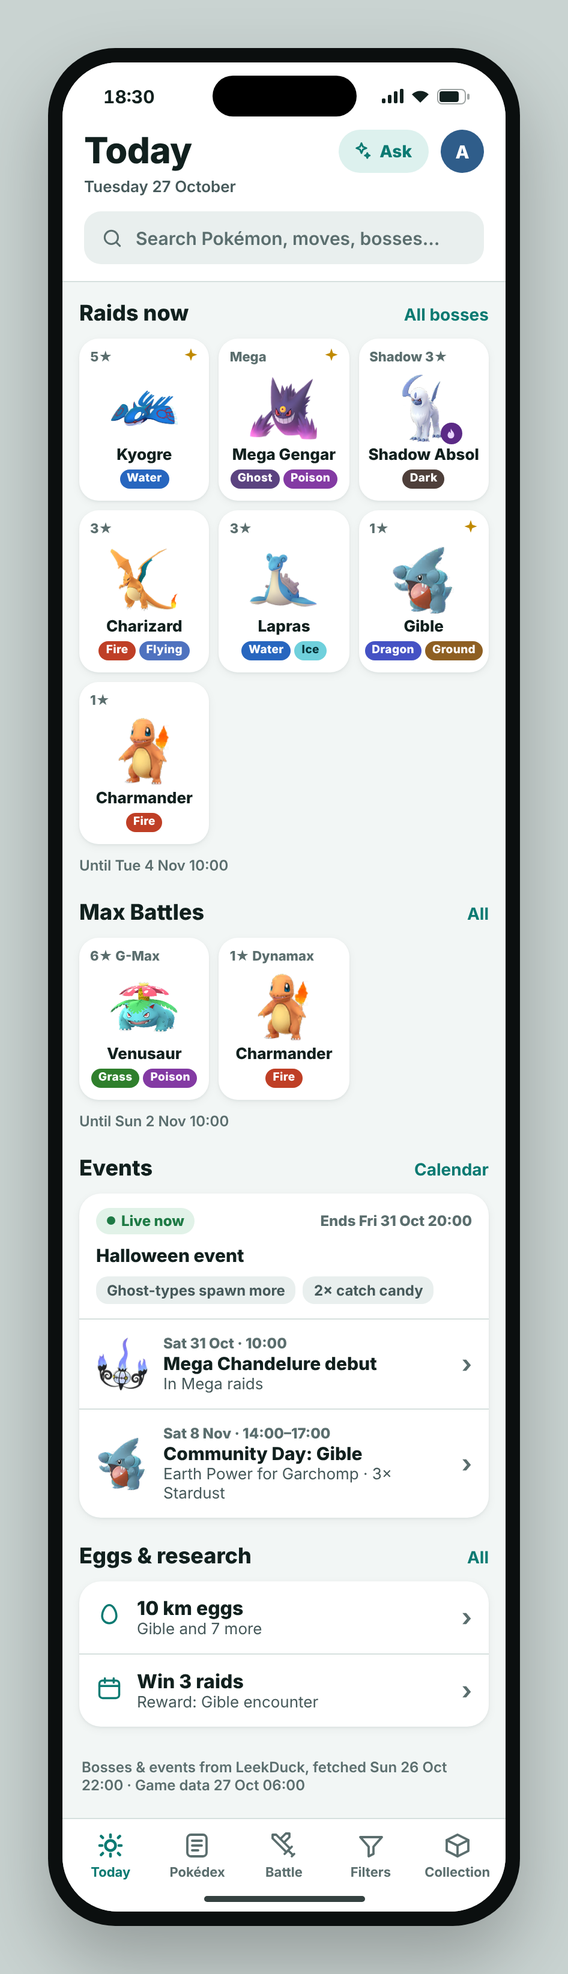
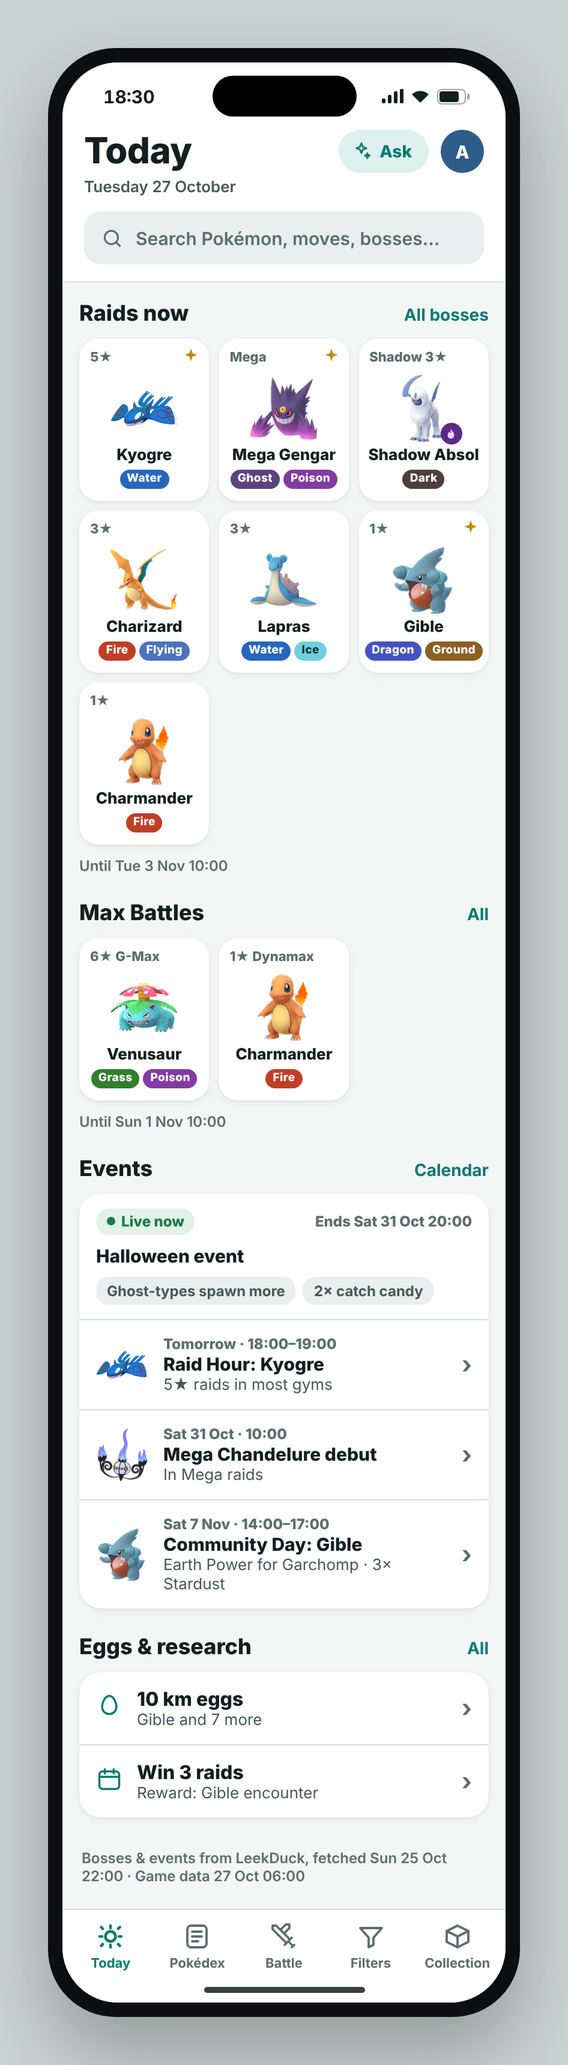
Design: A2 Calendar; sample dates fixed; A1 shows tomorrow's Raid Hour
Claude-Session: https://claude.ai/code/session_014PLsCiJiJmtsciFeh9tQXY

diff --git a/design/source/screens/A1-phone.html b/design/source/screens/A1-phone.html
@@ -8,24 +8,25 @@
 <div class="scroll"><div style="padding:16px 14px 20px;display:flex;flex-direction:column;gap:22px">
  <section class="section"><div class="sechead"><h2 class="sectitle">Raids now</h2><a class="seclink">All bosses</a></div>
   <div class="tiles" style="grid-template-columns:repeat(3,minmax(0,1fr))"><div class="tile"><span class="tier">5★</span><svg class="shiny" width="14" height="14" viewBox="0 0 24 24" aria-label="Shiny available"><path d="M12 2l2.2 6.6L21 11l-6.8 2.4L12 20l-2.2-6.6L3 11l6.8-2.4z" fill="currentColor"/></svg><img class="sprite" src="../sprites/382.png" width="56" height="56" alt="Kyogre"><span class="name">Kyogre</span><span class="types"><span class="type water">Water</span></span></div><div class="tile"><span class="tier">Mega</span><svg class="shiny" width="14" height="14" viewBox="0 0 24 24" aria-label="Shiny available"><path d="M12 2l2.2 6.6L21 11l-6.8 2.4L12 20l-2.2-6.6L3 11l6.8-2.4z" fill="currentColor"/></svg><img class="sprite" src="../sprites/094_51.png" width="56" height="56" alt="Mega Gengar"><span class="name">Mega Gengar</span><span class="types"><span class="type ghost">Ghost</span><span class="type poison">Poison</span></span></div><div class="tile"><span class="tier">Shadow 3★</span><span class="spritewrap"><img class="sprite" src="../sprites/359.png" width="56" height="56" alt="Shadow Absol"><span class="shadowflame"><svg width="11" height="11" viewBox="0 0 24 24"><path d="M12 2c1 4 6 6 6 12a6 6 0 0 1-12 0c0-3 2-5 3-7 1 2 3 3 3 3s-1-4 0-8z" fill="#E9D5FF"/></svg></span><span class="name">Shadow Absol</span><span class="types"><span class="type dark">Dark</span></span></span></div><div class="tile"><span class="tier">3★</span><img class="sprite" src="../sprites/006.png" width="56" height="56" alt="Charizard"><span class="name">Charizard</span><span class="types"><span class="type fire">Fire</span><span class="type flying">Flying</span></span></div><div class="tile"><span class="tier">3★</span><img class="sprite" src="../sprites/131.png" width="56" height="56" alt="Lapras"><span class="name">Lapras</span><span class="types"><span class="type water">Water</span><span class="type ice">Ice</span></span></div><div class="tile"><span class="tier">1★</span><svg class="shiny" width="14" height="14" viewBox="0 0 24 24" aria-label="Shiny available"><path d="M12 2l2.2 6.6L21 11l-6.8 2.4L12 20l-2.2-6.6L3 11l6.8-2.4z" fill="currentColor"/></svg><img class="sprite" src="../sprites/443.png" width="56" height="56" alt="Gible"><span class="name">Gible</span><span class="types"><span class="type dragon">Dragon</span><span class="type ground">Ground</span></span></div><div class="tile"><span class="tier">1★</span><img class="sprite" src="../sprites/004.png" width="56" height="56" alt="Charmander"><span class="name">Charmander</span><span class="types"><span class="type fire">Fire</span></span></div></div>
-  <span class="fresh">Until Tue 4 Nov 10:00</span></section>
+  <span class="fresh">Until Tue 3 Nov 10:00</span></section>
  <section class="section"><div class="sechead"><h2 class="sectitle">Max Battles</h2><a class="seclink">All</a></div>
   <div class="tiles" style="grid-template-columns:repeat(3,minmax(0,1fr))"><div class="tile"><span class="tier">6★ G-Max</span><img class="sprite" src="../sprites/003.png" width="56" height="56" alt="Venusaur"><span class="name">Venusaur</span><span class="types"><span class="type grass">Grass</span><span class="type poison">Poison</span></span></div><div class="tile"><span class="tier">1★ Dynamax</span><img class="sprite" src="../sprites/004.png" width="56" height="56" alt="Charmander"><span class="name">Charmander</span><span class="types"><span class="type fire">Fire</span></span></div></div>
-  <span class="fresh">Until Sun 2 Nov 10:00</span></section>
+  <span class="fresh">Until Sun 1 Nov 10:00</span></section>
  <section class="section"><div class="sechead"><h2 class="sectitle">Events</h2><a class="seclink">Calendar</a></div><div class="card">
  <div class="evt" style="flex-direction:column;align-items:stretch;gap:8px">
-  <div style="display:flex;align-items:center;gap:8px"><span class="pill live"><span class="dot"></span>Live now</span><span class="when" style="margin-left:auto">Ends Fri 31 Oct 20:00</span></div>
+  <div style="display:flex;align-items:center;gap:8px"><span class="pill live"><span class="dot"></span>Live now</span><span class="when" style="margin-left:auto">Ends Sat 31 Oct 20:00</span></div>
   <div class="what">Halloween event</div>
   <div class="chips"><span class="chip">Ghost-types spawn more</span><span class="chip">2× catch candy</span></div>
  </div>
+ <div class="evt"><img class="sprite" src="../sprites/382.png" width="44" height="44" alt="Kyogre"><div><div class="when">Tomorrow · 18:00–19:00</div><div class="what">Raid Hour: Kyogre</div><div class="muted" style="font-size:13px">5★ raids in most gyms</div></div><span class="chev">›</span></div>
  <div class="evt"><img class="sprite" src="../sprites/609.png" width="44" height="44" alt="Chandelure"><div><div class="when">Sat 31 Oct · 10:00</div><div class="what">Mega Chandelure debut</div><div class="muted" style="font-size:13px">In Mega raids</div></div><span class="chev">›</span></div>
- <div class="evt"><img class="sprite" src="../sprites/443.png" width="44" height="44" alt="Gible"><div><div class="when">Sat 8 Nov · 14:00–17:00</div><div class="what">Community Day: Gible</div><div class="muted" style="font-size:13px">Earth Power for Garchomp · 3× Stardust</div></div><span class="chev">›</span></div>
+ <div class="evt"><img class="sprite" src="../sprites/443.png" width="44" height="44" alt="Gible"><div><div class="when">Sat 7 Nov · 14:00–17:00</div><div class="what">Community Day: Gible</div><div class="muted" style="font-size:13px">Earth Power for Garchomp · 3× Stardust</div></div><span class="chev">›</span></div>
 </div></section>
  <section class="section"><div class="sechead"><h2 class="sectitle">Eggs &amp; research</h2><a class="seclink">All</a></div><div class="card">
  <div class="row"><span style="color:var(--accent)">ICON_EGG</span><div><div style="font-weight:800">10 km eggs</div><div class="muted" style="font-size:13px">Gible and 7 more</div></div><span class="chev">›</span></div>
  <div class="row"><span style="color:var(--accent)">ICON_CAL</span><div><div style="font-weight:800">Win 3 raids</div><div class="muted" style="font-size:13px">Reward: Gible encounter</div></div><span class="chev">›</span></div>
 </div></section>
- <p class="fresh" style="margin:4px 2px 0">Bosses &amp; events from LeekDuck, fetched Sun 26 Oct 22:00 · Game data 27 Oct 06:00</p>
+ <p class="fresh" style="margin:4px 2px 0">Bosses &amp; events from LeekDuck, fetched Sun 25 Oct 22:00 · Game data 27 Oct 06:00</p>
 </div></div>
 <div data-tabbar="today"></div>
 </div></div></div><script src="../chrome.js"></script><script>document.body.innerHTML=document.body.innerHTML.replaceAll("ICON_EGG",icon("egg",22)).replaceAll("ICON_CAL",icon("calendar",22));</script></body></html>

diff --git a/design/source/screens/A1-desktop.html b/design/source/screens/A1-desktop.html
@@ -5,20 +5,21 @@
   <div style="display:flex;flex-direction:column;gap:26px">
    <section class="section"><div class="sechead"><h2 class="sectitle">Raids now</h2><a class="seclink">All raid bosses →</a></div>
     <div class="tiles" style="grid-template-columns:repeat(4,minmax(0,1fr));gap:12px;--s:72px"><div class="tile"><span class="tier">5★</span><svg class="shiny" width="14" height="14" viewBox="0 0 24 24" aria-label="Shiny available"><path d="M12 2l2.2 6.6L21 11l-6.8 2.4L12 20l-2.2-6.6L3 11l6.8-2.4z" fill="currentColor"/></svg><img class="sprite" src="../sprites/382.png" width="72" height="72" alt="Kyogre"><span class="name">Kyogre</span><span class="types"><span class="type water">Water</span></span></div><div class="tile"><span class="tier">Mega</span><svg class="shiny" width="14" height="14" viewBox="0 0 24 24" aria-label="Shiny available"><path d="M12 2l2.2 6.6L21 11l-6.8 2.4L12 20l-2.2-6.6L3 11l6.8-2.4z" fill="currentColor"/></svg><img class="sprite" src="../sprites/094_51.png" width="72" height="72" alt="Mega Gengar"><span class="name">Mega Gengar</span><span class="types"><span class="type ghost">Ghost</span><span class="type poison">Poison</span></span></div><div class="tile"><span class="tier">Shadow 3★</span><span class="spritewrap"><img class="sprite" src="../sprites/359.png" width="72" height="72" alt="Shadow Absol"><span class="shadowflame"><svg width="11" height="11" viewBox="0 0 24 24"><path d="M12 2c1 4 6 6 6 12a6 6 0 0 1-12 0c0-3 2-5 3-7 1 2 3 3 3 3s-1-4 0-8z" fill="#E9D5FF"/></svg></span><span class="name">Shadow Absol</span><span class="types"><span class="type dark">Dark</span></span></span></div><div class="tile"><span class="tier">3★</span><img class="sprite" src="../sprites/006.png" width="72" height="72" alt="Charizard"><span class="name">Charizard</span><span class="types"><span class="type fire">Fire</span><span class="type flying">Flying</span></span></div><div class="tile"><span class="tier">3★</span><img class="sprite" src="../sprites/131.png" width="72" height="72" alt="Lapras"><span class="name">Lapras</span><span class="types"><span class="type water">Water</span><span class="type ice">Ice</span></span></div><div class="tile"><span class="tier">1★</span><svg class="shiny" width="14" height="14" viewBox="0 0 24 24" aria-label="Shiny available"><path d="M12 2l2.2 6.6L21 11l-6.8 2.4L12 20l-2.2-6.6L3 11l6.8-2.4z" fill="currentColor"/></svg><img class="sprite" src="../sprites/443.png" width="72" height="72" alt="Gible"><span class="name">Gible</span><span class="types"><span class="type dragon">Dragon</span><span class="type ground">Ground</span></span></div><div class="tile"><span class="tier">1★</span><img class="sprite" src="../sprites/004.png" width="72" height="72" alt="Charmander"><span class="name">Charmander</span><span class="types"><span class="type fire">Fire</span></span></div></div>
-    <span class="fresh">Until Tue 4 Nov 10:00</span></section>
+    <span class="fresh">Until Tue 3 Nov 10:00</span></section>
    <section class="section"><div class="sechead"><h2 class="sectitle">Max Battles</h2><a class="seclink">All Max Battles →</a></div>
     <div class="tiles" style="grid-template-columns:repeat(4,minmax(0,1fr));gap:12px;--s:72px"><div class="tile"><span class="tier">6★ G-Max</span><img class="sprite" src="../sprites/003.png" width="72" height="72" alt="Venusaur"><span class="name">Venusaur</span><span class="types"><span class="type grass">Grass</span><span class="type poison">Poison</span></span></div><div class="tile"><span class="tier">1★ Dynamax</span><img class="sprite" src="../sprites/004.png" width="72" height="72" alt="Charmander"><span class="name">Charmander</span><span class="types"><span class="type fire">Fire</span></span></div></div>
-    <span class="fresh">Until Sun 2 Nov 10:00</span></section>
+    <span class="fresh">Until Sun 1 Nov 10:00</span></section>
   </div>
   <div style="display:flex;flex-direction:column;gap:26px">
    <section class="section"><div class="sechead"><h2 class="sectitle">Events</h2><a class="seclink">Calendar →</a></div><div class="card">
  <div class="evt" style="flex-direction:column;align-items:stretch;gap:8px">
-  <div style="display:flex;align-items:center;gap:8px"><span class="pill live"><span class="dot"></span>Live now</span><span class="when" style="margin-left:auto">Ends Fri 31 Oct 20:00</span></div>
+  <div style="display:flex;align-items:center;gap:8px"><span class="pill live"><span class="dot"></span>Live now</span><span class="when" style="margin-left:auto">Ends Sat 31 Oct 20:00</span></div>
   <div class="what">Halloween event</div>
   <div class="chips"><span class="chip">Ghost-types spawn more</span><span class="chip">2× catch candy</span></div>
  </div>
+ <div class="evt"><img class="sprite" src="../sprites/382.png" width="44" height="44" alt="Kyogre"><div><div class="when">Tomorrow · 18:00–19:00</div><div class="what">Raid Hour: Kyogre</div><div class="muted" style="font-size:13px">5★ raids in most gyms</div></div><span class="chev">›</span></div>
  <div class="evt"><img class="sprite" src="../sprites/609.png" width="44" height="44" alt="Chandelure"><div><div class="when">Sat 31 Oct · 10:00</div><div class="what">Mega Chandelure debut</div><div class="muted" style="font-size:13px">In Mega raids</div></div><span class="chev">›</span></div>
- <div class="evt"><img class="sprite" src="../sprites/443.png" width="44" height="44" alt="Gible"><div><div class="when">Sat 8 Nov · 14:00–17:00</div><div class="what">Community Day: Gible</div><div class="muted" style="font-size:13px">Earth Power for Garchomp · 3× Stardust</div></div><span class="chev">›</span></div>
+ <div class="evt"><img class="sprite" src="../sprites/443.png" width="44" height="44" alt="Gible"><div><div class="when">Sat 7 Nov · 14:00–17:00</div><div class="what">Community Day: Gible</div><div class="muted" style="font-size:13px">Earth Power for Garchomp · 3× Stardust</div></div><span class="chev">›</span></div>
 </div></section>
    <section class="section"><div class="sechead"><h2 class="sectitle">Eggs &amp; research</h2><a class="seclink">All →</a></div><div class="card">
  <div class="row"><span style="color:var(--accent)">ICON_EGG</span><div><div style="font-weight:800">10 km eggs</div><div class="muted" style="font-size:13px">Gible and 7 more</div></div><span class="chev">›</span></div>
@@ -26,5 +27,5 @@
 </div></section>
   </div>
  </div>
- <p class="fresh" style="margin:4px 2px 0">Bosses &amp; events from LeekDuck, fetched Sun 26 Oct 22:00 · Game data 27 Oct 06:00</p>
+ <p class="fresh" style="margin:4px 2px 0">Bosses &amp; events from LeekDuck, fetched Sun 25 Oct 22:00 · Game data 27 Oct 06:00</p>
 </div></div></div><script src="../chrome.js"></script><script>document.body.innerHTML=document.body.innerHTML.replaceAll("ICON_EGG",icon("egg",22)).replaceAll("ICON_CAL",icon("calendar",22));</script></body></html>

diff --git a/design/source/screens/A2-desktop.html b/design/source/screens/A2-desktop.html
@@ -1,0 +1,4 @@
+<!doctype html><html lang="en"><head><meta charset="utf-8"><title>A2 Calendar</title><link rel="stylesheet" href="../base.css"><link rel="stylesheet" href="_a2.css"></head><body><div class="desktop"><div data-sidebar="calendar"></div><div class="main"><div data-topbar></div>
+<div class="content" style="max-width:960px"><a class="backlink">‹ Today</a>
+<div style="display:flex;align-items:flex-end;gap:16px;margin:6px 0 18px"><h1 class="bigtitle" style="flex:none">Calendar</h1><span style="flex:1"></span><div class="filterchips"><span class="fchip on">All</span><span class="fchip">Raids</span><span class="fchip">Max Battles</span><span class="fchip">Events</span></div></div>
+<div style="margin:0 -12px"><div class="day"><b>Now</b></div><div class="group" style="margin:0 12px 6px"><div class="citem"><div class="ctime">Until Sat 31&nbsp;Oct 20:00</div><div class="cbody"><span style="display:flex;gap:6px;align-items:center"><span class="pill live" style="height:20px"><span class="dot"></span>Live</span><span class="kind ev">Event</span></span><div class="ctitle">Halloween event</div><div class="chips"><span class="chip">Ghost-types spawn more</span><span class="chip">2× catch candy</span></div></div><span class="csprites"><img class="sprite" src="../sprites/094.png" width="40" height="40" alt=""></span><span class="chev">›</span></div><div class="citem"><div class="ctime">Until Tue 3&nbsp;Nov 10:00</div><div class="cbody"><span style="display:flex;gap:6px;align-items:center"><span class="pill live" style="height:20px"><span class="dot"></span>Live</span><span class="kind">Raids</span></span><div class="ctitle">Kyogre, Mega Gengar, Shadow Absol and 4 more</div></div><span class="csprites"><img class="sprite" src="../sprites/382.png" width="40" height="40" alt=""><img class="sprite" src="../sprites/094_51.png" width="40" height="40" alt=""><img class="sprite" src="../sprites/359.png" width="40" height="40" alt=""></span><span class="chev">›</span></div><div class="citem"><div class="ctime">Until Sun 1&nbsp;Nov 10:00</div><div class="cbody"><span style="display:flex;gap:6px;align-items:center"><span class="pill live" style="height:20px"><span class="dot"></span>Live</span><span class="kind">Max Battles</span></span><div class="ctitle">Gigantamax Venusaur, Dynamax Charmander</div></div><span class="csprites"><img class="sprite" src="../sprites/003.png" width="40" height="40" alt=""><img class="sprite" src="../sprites/004.png" width="40" height="40" alt=""></span><span class="chev">›</span></div></div><div class="day"><b>Wed 28 Oct</b>Tomorrow</div><div class="group" style="margin:0 12px 6px"><div class="citem"><div class="ctime">18:00–<br>19:00</div><div class="cbody"><span class="kind">Raid Hour</span><div class="ctitle">Kyogre</div><div class="chips"><span class="chip">5★ raids in most gyms</span></div></div><span class="csprites"><img class="sprite" src="../sprites/382.png" width="40" height="40" alt=""></span><span class="chev">›</span></div></div><div class="day"><b>Sat 31 Oct</b></div><div class="group" style="margin:0 12px 6px"><div class="citem"><div class="ctime">10:00</div><div class="cbody"><span class="kind ev">Debut</span><div class="ctitle">Mega Chandelure in Mega raids</div></div><span class="csprites"><img class="sprite" src="../sprites/609.png" width="40" height="40" alt=""></span><span class="chev">›</span></div><div class="citem"><div class="ctime">20:00</div><div class="cbody"><span class="kind">Event ends</span><div class="ctitle">Halloween event ends</div></div><span class="chev">›</span></div></div><div class="day"><b>Sun 1 Nov</b></div><div class="group" style="margin:0 12px 6px"><div class="citem"><div class="ctime">10:00</div><div class="cbody"><span class="kind">Max Battles</span><div class="ctitle">New: 6★ Gigantamax Lapras</div></div><span class="csprites"><img class="sprite" src="../sprites/131.png" width="40" height="40" alt=""></span><span class="chev">›</span></div></div><div class="day"><b>Mon 2 Nov</b></div><div class="group" style="margin:0 12px 6px"><div class="citem"><div class="ctime">18:00–<br>19:00</div><div class="cbody"><span class="kind">Max Monday</span><div class="ctitle">Gigantamax Lapras</div><div class="chips"><span class="chip">More Power Spots</span></div></div><span class="csprites"><img class="sprite" src="../sprites/131.png" width="40" height="40" alt=""></span><span class="chev">›</span></div></div><div class="day"><b>Tue 3 Nov</b></div><div class="group" style="margin:0 12px 6px"><div class="citem"><div class="ctime">10:00</div><div class="cbody"><span class="kind">Raids</span><div class="ctitle">New 5★: Groudon</div></div><span class="csprites"><img class="sprite" src="../sprites/383.png" width="40" height="40" alt=""></span><span class="chev">›</span></div><div class="citem"><div class="ctime">18:00–<br>19:00</div><div class="cbody"><span class="kind">Spotlight Hour</span><div class="ctitle">Snorunt</div><div class="chips"><span class="chip">2× catch Stardust</span></div></div><span class="csprites"><img class="sprite" src="../sprites/361.png" width="40" height="40" alt=""></span><span class="chev">›</span></div></div><div class="day"><b>Wed 4 Nov</b></div><div class="group" style="margin:0 12px 6px"><div class="citem"><div class="ctime">18:00–<br>19:00</div><div class="cbody"><span class="kind">Raid Hour</span><div class="ctitle">Groudon</div></div><span class="csprites"><img class="sprite" src="../sprites/383.png" width="40" height="40" alt=""></span><span class="chev">›</span></div></div><div class="day"><b>Sat 7 Nov</b></div><div class="group" style="margin:0 12px 6px"><div class="citem"><div class="ctime">14:00–<br>17:00</div><div class="cbody"><span class="kind ev">Community Day</span><div class="ctitle">Gible</div><div class="chips"><span class="chip">Earth Power for Garchomp</span><span class="chip">3× catch Stardust</span></div></div><span class="csprites"><img class="sprite" src="../sprites/443.png" width="40" height="40" alt=""></span><span class="chev">›</span></div></div></div><p class="fresh" style="margin:14px 16px 4px">From LeekDuck, fetched by the AI researcher Sun 25 Oct 22:00 · Times in Lisbon time</p></div></div></div><script src="../chrome.js"></script></body></html>

diff --git a/design/source/screens/A2-phone.html b/design/source/screens/A2-phone.html
@@ -1,0 +1,5 @@
+<!doctype html><html lang="en"><head><meta charset="utf-8"><title>A2 Calendar</title><link rel="stylesheet" href="../base.css"><link rel="stylesheet" href="_a2.css"></head><body><div class="stage"><div class="device"><div class="screen">
+<div data-statusbar></div><div data-dethead="Today|Calendar"></div>
+<div style="background:var(--surface);padding:10px 12px 12px;border-bottom:1px solid var(--line)"><div class="filterchips"><span class="fchip on">All</span><span class="fchip">Raids</span><span class="fchip">Max Battles</span><span class="fchip">Events</span></div></div>
+<div class="scroll"><div style="padding:4px 0 18px"><div class="day"><b>Now</b></div><div class="group" style="margin:0 12px 6px"><div class="citem"><div class="cbody"><span style="display:flex;gap:6px;align-items:center"><span class="pill live" style="height:20px"><span class="dot"></span>Live</span><span class="kind ev">Event</span></span><div class="ctitle">Halloween event</div><div class="until">Until Sat 31 Oct 20:00</div><div class="chips"><span class="chip">Ghost-types spawn more</span><span class="chip">2× catch candy</span></div></div><span class="csprites"><img class="sprite" src="../sprites/094.png" width="40" height="40" alt=""></span><span class="chev">›</span></div><div class="citem"><div class="cbody"><span style="display:flex;gap:6px;align-items:center"><span class="pill live" style="height:20px"><span class="dot"></span>Live</span><span class="kind">Raids</span></span><div class="ctitle">7 raid bosses</div><div class="until">Until Tue 3 Nov 10:00</div></div><span class="csprites"><img class="sprite" src="../sprites/382.png" width="40" height="40" alt=""><img class="sprite" src="../sprites/094_51.png" width="40" height="40" alt=""></span><span class="chev">›</span></div><div class="citem"><div class="cbody"><span style="display:flex;gap:6px;align-items:center"><span class="pill live" style="height:20px"><span class="dot"></span>Live</span><span class="kind">Max Battles</span></span><div class="ctitle">2 Max bosses</div><div class="until">Until Sun 1 Nov 10:00</div></div><span class="csprites"><img class="sprite" src="../sprites/003.png" width="40" height="40" alt=""><img class="sprite" src="../sprites/004.png" width="40" height="40" alt=""></span><span class="chev">›</span></div></div><div class="day"><b>Wed 28 Oct</b>Tomorrow</div><div class="group" style="margin:0 12px 6px"><div class="citem"><div class="ctime">18:00–<br>19:00</div><div class="cbody"><span class="kind">Raid Hour</span><div class="ctitle">Kyogre</div><div class="chips"><span class="chip">5★ raids in most gyms</span></div></div><span class="csprites"><img class="sprite" src="../sprites/382.png" width="40" height="40" alt=""></span><span class="chev">›</span></div></div><div class="day"><b>Sat 31 Oct</b></div><div class="group" style="margin:0 12px 6px"><div class="citem"><div class="ctime">10:00</div><div class="cbody"><span class="kind ev">Debut</span><div class="ctitle">Mega Chandelure in Mega raids</div></div><span class="csprites"><img class="sprite" src="../sprites/609.png" width="40" height="40" alt=""></span><span class="chev">›</span></div><div class="citem"><div class="ctime">20:00</div><div class="cbody"><span class="kind">Event ends</span><div class="ctitle">Halloween event ends</div></div><span class="chev">›</span></div></div><div class="day"><b>Sun 1 Nov</b></div><div class="group" style="margin:0 12px 6px"><div class="citem"><div class="ctime">10:00</div><div class="cbody"><span class="kind">Max Battles</span><div class="ctitle">New: 6★ Gigantamax Lapras</div></div><span class="csprites"><img class="sprite" src="../sprites/131.png" width="40" height="40" alt=""></span><span class="chev">›</span></div></div><div class="day"><b>Mon 2 Nov</b></div><div class="group" style="margin:0 12px 6px"><div class="citem"><div class="ctime">18:00–<br>19:00</div><div class="cbody"><span class="kind">Max Monday</span><div class="ctitle">Gigantamax Lapras</div><div class="chips"><span class="chip">More Power Spots</span></div></div><span class="csprites"><img class="sprite" src="../sprites/131.png" width="40" height="40" alt=""></span><span class="chev">›</span></div></div><div class="day"><b>Tue 3 Nov</b></div><div class="group" style="margin:0 12px 6px"><div class="citem"><div class="ctime">10:00</div><div class="cbody"><span class="kind">Raids</span><div class="ctitle">New 5★: Groudon</div></div><span class="csprites"><img class="sprite" src="../sprites/383.png" width="40" height="40" alt=""></span><span class="chev">›</span></div><div class="citem"><div class="ctime">18:00–<br>19:00</div><div class="cbody"><span class="kind">Spotlight Hour</span><div class="ctitle">Snorunt</div><div class="chips"><span class="chip">2× catch Stardust</span></div></div><span class="csprites"><img class="sprite" src="../sprites/361.png" width="40" height="40" alt=""></span><span class="chev">›</span></div></div><div class="day"><b>Wed 4 Nov</b></div><div class="group" style="margin:0 12px 6px"><div class="citem"><div class="ctime">18:00–<br>19:00</div><div class="cbody"><span class="kind">Raid Hour</span><div class="ctitle">Groudon</div></div><span class="csprites"><img class="sprite" src="../sprites/383.png" width="40" height="40" alt=""></span><span class="chev">›</span></div></div><div class="day"><b>Sat 7 Nov</b></div><div class="group" style="margin:0 12px 6px"><div class="citem"><div class="ctime">14:00–<br>17:00</div><div class="cbody"><span class="kind ev">Community Day</span><div class="ctitle">Gible</div><div class="chips"><span class="chip">Earth Power for Garchomp</span><span class="chip">3× catch Stardust</span></div></div><span class="csprites"><img class="sprite" src="../sprites/443.png" width="40" height="40" alt=""></span><span class="chev">›</span></div></div><p class="fresh" style="margin:14px 16px 4px">From LeekDuck, fetched by the AI researcher Sun 25 Oct 22:00 · Times in Lisbon time</p></div></div>
+<div data-tabbar="today"></div></div></div></div><script src="../chrome.js"></script></body></html>

diff --git a/design/source/screens/_a2.css b/design/source/screens/_a2.css
@@ -1,0 +1,16 @@
+.day { padding: 14px 16px 6px; font-size: 13px; font-weight: 800; color: var(--text-3); letter-spacing: .02em; display: flex; gap: 8px; align-items: baseline; }
+.day b { color: var(--text); font-size: 15px; }
+.citem { display: flex; gap: 12px; align-items: center; padding: 12px 16px; background: var(--surface); }
+.citem + .citem { border-top: 1px solid var(--line); }
+.ctime { width: 64px; flex: none; font-size: 13px; font-weight: 800; color: var(--text-2); line-height: 1.25; }
+.cbody { flex: 1; min-width: 0; display: flex; flex-direction: column; gap: 4px; }
+.ctitle { font-size: 15.5px; font-weight: 800; line-height: 1.25; }
+.kind { align-self: flex-start; font-size: 11px; font-weight: 800; padding: 2px 8px; border-radius: 8px; background: var(--surface-2); color: var(--text-2); }
+.kind.ev { background: var(--accent-soft); color: var(--accent); }
+.csprites { display: flex; flex: none; }
+.csprites img + img { margin-left: -10px; }
+.chips { display: flex; flex-wrap: wrap; gap: 6px; }
+.chip { font-size: 12px; font-weight: 700; padding: 3px 8px; border-radius: 9px; background: var(--surface-2); color: var(--text-2); }
+.chev { color: var(--text-3); font-size: 20px; font-weight: 700; }
+.group { border-radius: 18px; overflow: hidden; box-shadow: var(--shadow); }
+.until { font-size: 13px; font-weight: 700; color: var(--text-2); }

diff --git a/design/source/base.css b/design/source/base.css
@@ -84,3 +84,13 @@ kbd { font-family: var(--mono); font-size: 11px; padding: 2px 6px; border-radius
 .muted { color: var(--text-2); }
 .faint { color: var(--text-3); }
 .fresh { font-size: 12px; color: var(--text-3); font-weight: 600; }
+
+/* ---------- detail screen header (phone) ---------- */
+.dethead { background: var(--surface); border-bottom: 1px solid var(--line); height: 54px; display: grid; grid-template-columns: 1fr auto 1fr; align-items: center; padding: 0 12px; }
+.dethead .back { color: var(--accent); font-weight: 800; font-size: 16px; display: flex; align-items: center; gap: 2px; }
+.dethead .dettitle { font-weight: 800; font-size: 17px; }
+.dethead .askbtn { justify-self: end; }
+.filterchips { display: flex; gap: 8px; overflow: hidden; }
+.fchip { flex: none; height: 34px; padding: 0 14px; border-radius: 17px; background: var(--surface); border: 1px solid var(--line); color: var(--text-2); font-weight: 700; font-size: 14px; display: inline-flex; align-items: center; }
+.fchip.on { background: var(--accent); border-color: var(--accent); color: var(--accent-ink); }
+.backlink { color: var(--accent); font-weight: 800; font-size: 15px; }

diff --git a/design/source/chrome.js b/design/source/chrome.js
@@ -48,6 +48,10 @@
   document.querySelectorAll("[data-search]").forEach(el => {
     el.outerHTML = `<div class="searchbox">${svg("search", 19)}Search Pokémon, moves, bosses…</div>`;
   });
+  document.querySelectorAll("[data-dethead]").forEach(el => {
+    const [back, title] = el.dataset.dethead.split("|");
+    el.outerHTML = `<header class="dethead"><a class="back">‹ ${back}</a><span class="dettitle">${title}</span><button class="askbtn">${svg("ask", 18)}Ask</button></header>`;
+  });
   document.querySelectorAll("[data-ask]").forEach(el => { el.outerHTML = `<button class="askbtn">${svg("ask", 18)}Ask</button>`; });
   if (new URLSearchParams(location.search).get("full")) document.documentElement.classList.add("full");
   if (new URLSearchParams(location.search).get("theme") === "dark") document.documentElement.dataset.theme = "dark";

diff --git a/design/source/screens/gen_a2.py b/design/source/screens/gen_a2.py
@@ -1,0 +1,53 @@
+"""Generates A2 Calendar (phone + desktop)."""
+import pathlib
+HERE = pathlib.Path(__file__).parent
+
+def sp(ids, size=40):
+    return '<span class="csprites">' + ''.join(f'<img class="sprite" src="../sprites/{i}.png" width="{size}" height="{size}" alt="">' for i in ids) + '</span>'
+
+def item(time, kind, title, chips=(), ids=(), ev=False, until=None, phone=False):
+    k = f'<span class="kind{" ev" if ev else ""}">{kind}</span>'
+    if until:
+        k = f'<span style="display:flex;gap:6px;align-items:center"><span class="pill live" style="height:20px"><span class="dot"></span>Live</span>{k}</span>'
+    ch = ('<div class="chips">' + ''.join(f'<span class="chip">{c}</span>' for c in chips) + '</div>') if chips else ''
+    u = f'<div class="until">Until {until}</div>' if until else ''
+    t = '' if (until and phone) else f'<div class="ctime">{"Until " + until.replace(" ", "&nbsp;", 2).replace("&nbsp;", " ", 1) if until else time}</div>'
+    if until and not phone:
+        u = ''
+    ids = list(ids)[:2] if phone else ids
+    return f'<div class="citem">{t}<div class="cbody">{k}<div class="ctitle">{title}</div>{u}{ch}</div>{sp(ids) if ids else ""}<span class="chev">›</span></div>'
+
+def days(phone):
+    return [
+        ('Now', '', [
+            item('', 'Event', 'Halloween event', ['Ghost-types spawn more', '2× catch candy'], ['094'], True, 'Sat 31 Oct 20:00', phone),
+            item('', 'Raids', '7 raid bosses' if phone else 'Kyogre, Mega Gengar, Shadow Absol and 4 more', [], ['382', '094_51', '359'], until='Tue 3 Nov 10:00', phone=phone),
+            item('', 'Max Battles', '2 Max bosses' if phone else 'Gigantamax Venusaur, Dynamax Charmander', [], ['003', '004'], until='Sun 1 Nov 10:00', phone=phone)]),
+        ('Wed 28 Oct', 'Tomorrow', [item('18:00–<br>19:00', 'Raid Hour', 'Kyogre', ['5★ raids in most gyms'], ['382'])]),
+        ('Sat 31 Oct', '', [item('10:00', 'Debut', 'Mega Chandelure in Mega raids', [], ['609'], True),
+                            item('20:00', 'Event ends', 'Halloween event ends')]),
+        ('Sun 1 Nov', '', [item('10:00', 'Max Battles', 'New: 6★ Gigantamax Lapras', [], ['131'])]),
+        ('Mon 2 Nov', '', [item('18:00–<br>19:00', 'Max Monday', 'Gigantamax Lapras', ['More Power Spots'], ['131'])]),
+        ('Tue 3 Nov', '', [item('10:00', 'Raids', 'New 5★: Groudon', [], ['383']),
+                           item('18:00–<br>19:00', 'Spotlight Hour', 'Snorunt', ['2× catch Stardust'], ['361'])]),
+        ('Wed 4 Nov', '', [item('18:00–<br>19:00', 'Raid Hour', 'Groudon', [], ['383'])]),
+        ('Sat 7 Nov', '', [item('14:00–<br>17:00', 'Community Day', 'Gible', ['Earth Power for Garchomp', '3× catch Stardust'], ['443'], True)]),
+    ]
+
+def agenda(phone):
+    return ''.join(f'<div class="day"><b>{d}</b>{rel}</div><div class="group" style="margin:0 12px 6px">' + ''.join(items) + '</div>' for d, rel, items in days(phone))
+
+chips = '<div class="filterchips"><span class="fchip on">All</span><span class="fchip">Raids</span><span class="fchip">Max Battles</span><span class="fchip">Events</span></div>'
+fresh = '<p class="fresh" style="margin:14px 16px 4px">From LeekDuck, fetched by the AI researcher Sun 25 Oct 22:00 · Times in Lisbon time</p>'
+head = '<!doctype html><html lang="en"><head><meta charset="utf-8"><title>A2 Calendar</title><link rel="stylesheet" href="../base.css"><link rel="stylesheet" href="_a2.css"></head><body>'
+phone = head + f'''<div class="stage"><div class="device"><div class="screen">
+<div data-statusbar></div><div data-dethead="Today|Calendar"></div>
+<div style="background:var(--surface);padding:10px 12px 12px;border-bottom:1px solid var(--line)">{chips}</div>
+<div class="scroll"><div style="padding:4px 0 18px">{agenda(True)}{fresh}</div></div>
+<div data-tabbar="today"></div></div></div></div><script src="../chrome.js"></script></body></html>'''
+desk = head + f'''<div class="desktop"><div data-sidebar="calendar"></div><div class="main"><div data-topbar></div>
+<div class="content" style="max-width:960px"><a class="backlink">‹ Today</a>
+<div style="display:flex;align-items:flex-end;gap:16px;margin:6px 0 18px"><h1 class="bigtitle" style="flex:none">Calendar</h1><span style="flex:1"></span>{chips}</div>
+<div style="margin:0 -12px">{agenda(False)}</div>{fresh}</div></div></div><script src="../chrome.js"></script></body></html>'''
+(HERE / 'A2-phone.html').write_text(phone)
+(HERE / 'A2-desktop.html').write_text(desk)

diff --git a/design/source/CONVENTIONS.md b/design/source/CONVENTIONS.md
@@ -26,19 +26,27 @@ All screens show the same moment and the same trainer, so they tell one consiste
 
 - **Now:** Tuesday 27 October 2026, 18:30 (Lisbon).
 - **Trainer:** Ash_PT · level 48 · Team Mystic · signed in · language English.
-- **Data freshness:** game data and rankings 27 Oct 06:00; bosses & events fetched by the AI researcher Sun 26 Oct 22:00 (source: LeekDuck).
-- **Raids now** (until Tue 4 Nov 10:00):
+- **Data freshness:** game data and rankings 27 Oct 06:00; bosses & events fetched by the AI researcher Sun 25 Oct 22:00 (source: LeekDuck).
+- **Raids now** (until Tue 3 Nov 10:00):
   - 5★ **Kyogre** (Water) — 100% CP 2,351 / 2,939 boosted (Rainy) — shiny available.
   - Mega **Mega Gengar** (Ghost/Poison) — shiny available.
   - Shadow 3★ **Shadow Absol** (Dark).
   - 3★ **Charizard** (Fire/Flying), **Lapras** (Water/Ice).
   - 1★ **Gible** (Dragon/Ground), **Charmander** (Fire).
-- **Max Battles now** (until Sun 2 Nov 10:00): 6★ **Gigantamax Venusaur**; 1★ **Dynamax Charmander**.
+- **Max Battles now** (until Sun 1 Nov 10:00): 6★ **Gigantamax Venusaur**; 1★ **Dynamax Charmander**.
 - **Events:**
-  - Live: **Halloween event** — until Fri 31 Oct 20:00 — Ghost-types spawn more often; 2× catch candy.
+  - Live: **Halloween event** — until Sat 31 Oct 20:00 — Ghost-types spawn more often; 2× catch candy.
   - Next: **Mega Chandelure debut** — Sat 31 Oct 10:00 — Mega Chandelure in Mega raids.
-  - Next: **Community Day: Gible** — Sat 8 Nov 14:00–17:00 — evolve Gabite for Garchomp with Earth Power; 3× catch Stardust.
+  - Next: **Community Day: Gible** — Sat 7 Nov 14:00–17:00 — evolve Gabite for Garchomp with Earth Power; 3× catch Stardust.
+- **Calendar entries** (A2; all sample):
+  - Wed 28 Oct 18:00–19:00 — Raid Hour: Kyogre.
+  - Sat 31 Oct 10:00 — Mega Chandelure debut (Mega raids); 20:00 — Halloween event ends.
+  - Sun 1 Nov 10:00 — new Max Battles: 6★ Gigantamax Lapras.
+  - Mon 2 Nov 18:00–19:00 — Max Monday: Gigantamax Lapras.
+  - Tue 3 Nov 10:00 — new raids: 5★ Groudon (Ground); 18:00–19:00 — Spotlight Hour: Snorunt (2× catch Stardust).
+  - Wed 4 Nov 18:00–19:00 — Raid Hour: Groudon.
+  - Sat 7 Nov 14:00–17:00 — Community Day: Gible.
 - **Eggs:** 10 km includes Gible; **Research:** "Win 3 raids" → Gible encounter.
-- **Collection:** 2,148 Pokémon; last import Sun 26 Oct 21:14 (63 new, 40 gone, 12 changed). Includes a Garchomp 2/15/13 L23 (UL rank 41), a Medicham 1/15/15 L49.5 (GL rank 12), Shadow Zekrom, Zeraora, Mega-ready Sceptile.
+- **Collection:** 2,148 Pokémon; last import Sun 25 Oct 21:14 (63 new, 40 gone, 12 changed). Includes a Garchomp 2/15/13 L23 (UL rank 41), a Medicham 1/15/15 L49.5 (GL rank 12), Shadow Zekrom, Zeraora, Mega-ready Sceptile.
 - **Kyogre counters** (from today's raid model, same numbers on every screen): Mega Sceptile 57.3 (Mega slot) · Shadow Zekrom 44.6 · Zeraora 41.5 · Shadow Raikou 41.2 · Shadow Electivire 39.8 · Shadow Chesnaught 39.3 · Zarude 39.2 · Regieleki 39.2 · Xurkitree 39.1.
 - **Garchomp** (B2 example): Atk 261 · Def 193 · Sta 239 · max CP 3,962 / 4,479 / 4,532 (L40/50/51) · 100% CP 1,698 (L15) / 2,264 (L20) / 2,830 (L25) / 3,396 (L30) / 3,679 (L35) · ML #31 (Shadow #26) · Ground raids #12 (Shadow #5, Mega #2) · GL best IVs 0/15/14.
